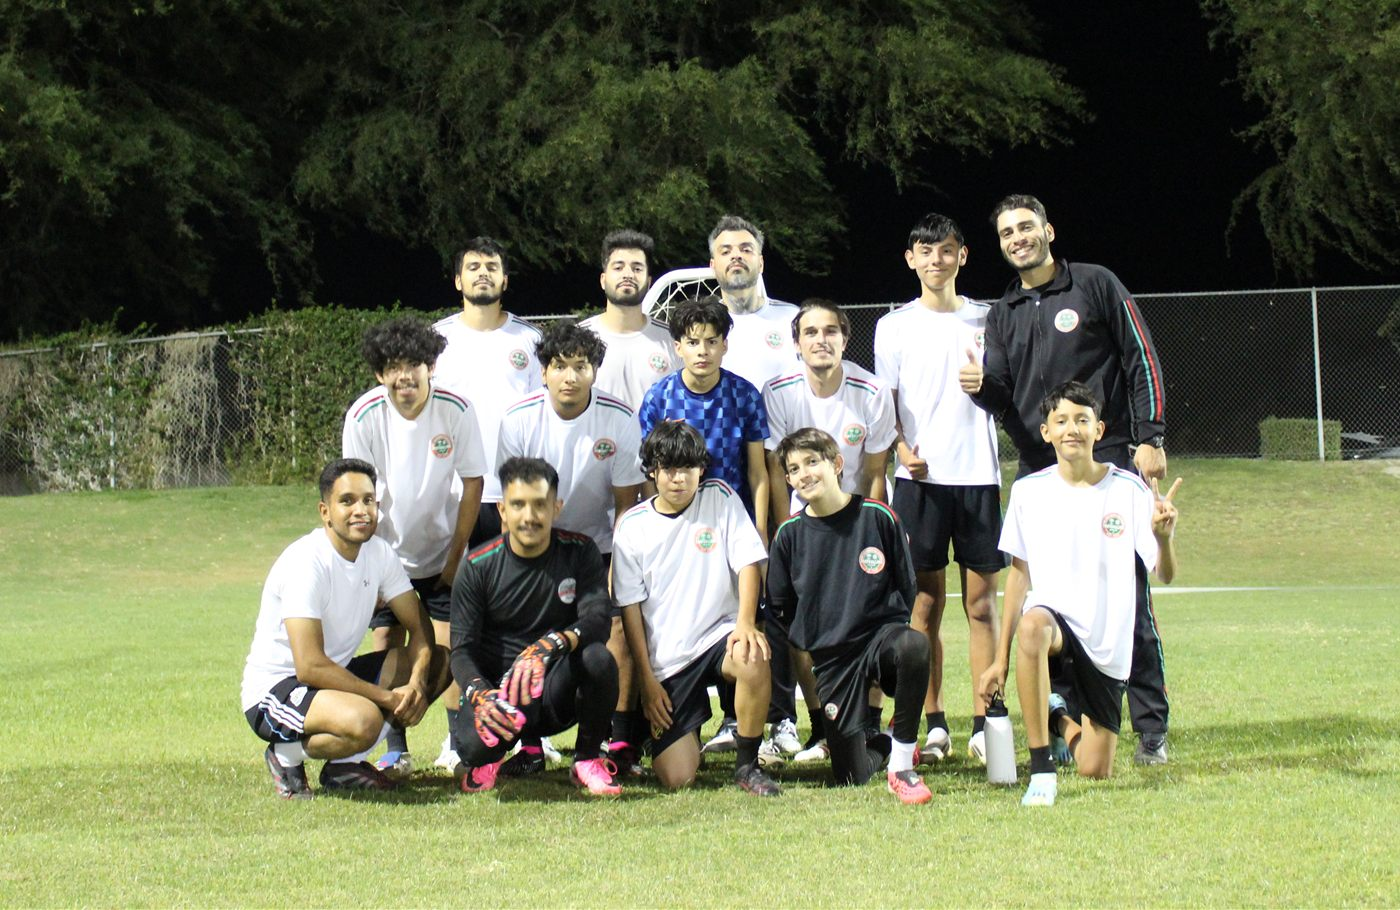
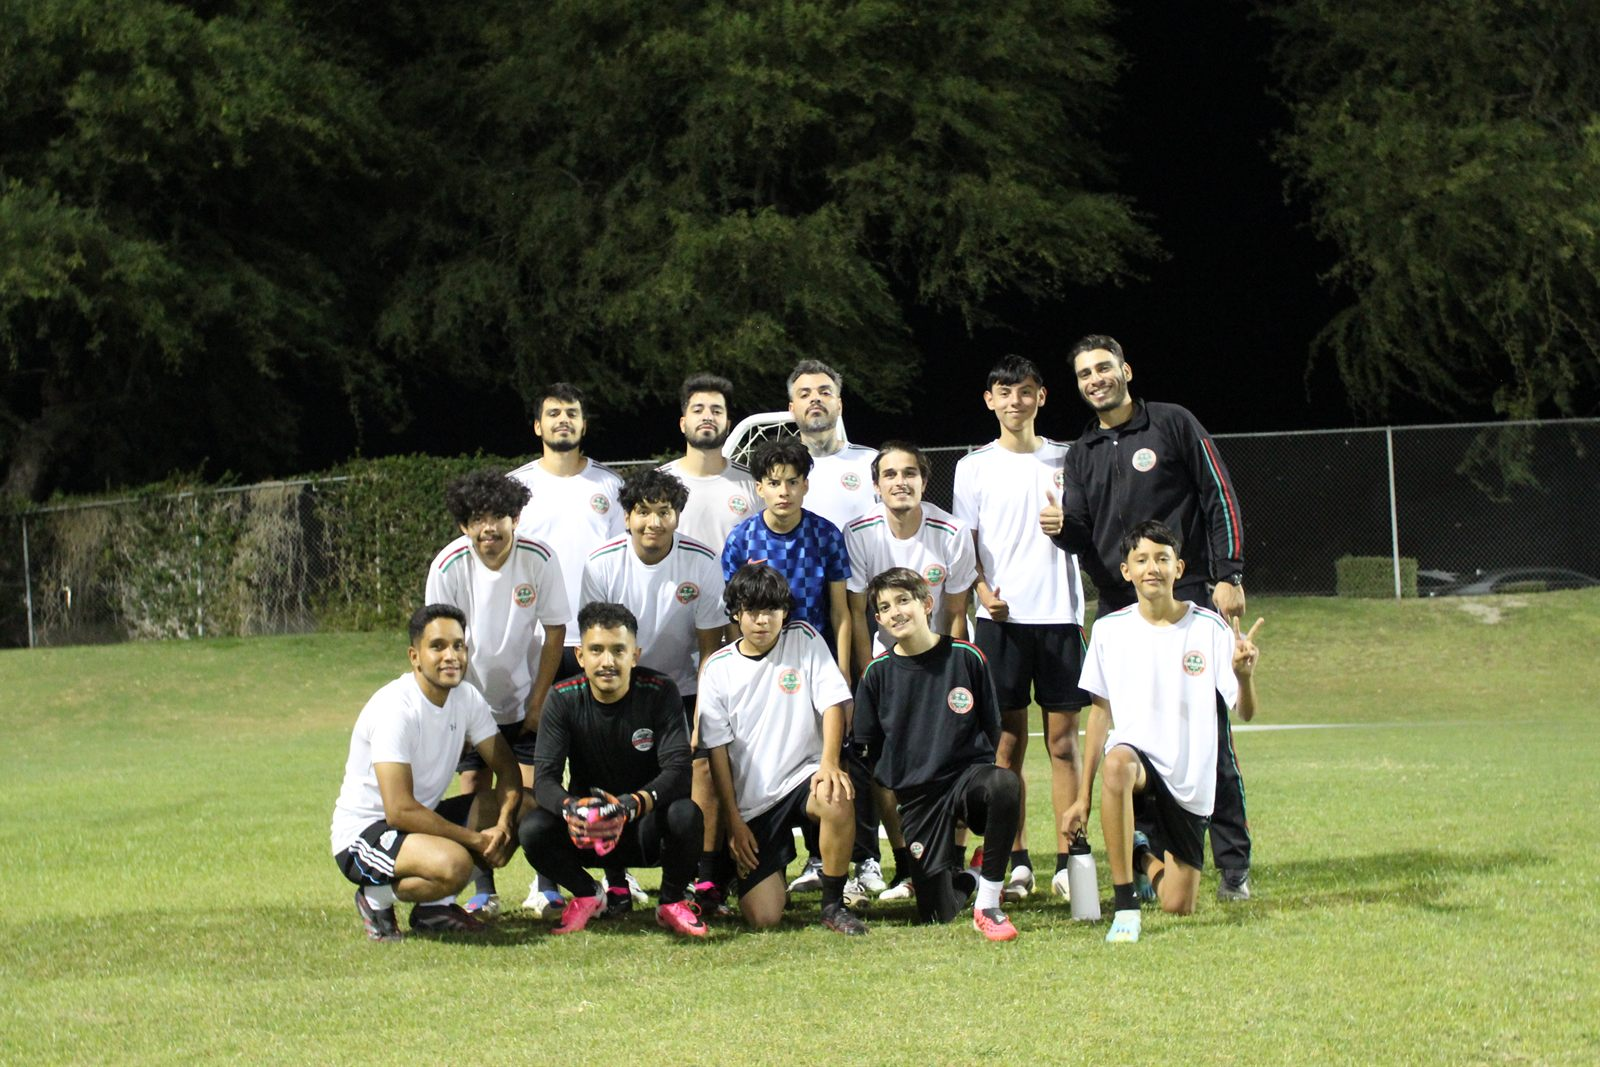
New first team photo and homepage photo carousel
- Replace the first team photo with a fresh crop from the full-resolution original (Men's page + media grid)
- New portrait crop (mens-card.jpg) for the homepage Men's card so every player fits the 3:4 card
- Add a "Club gallery" carousel on the homepage: 4 club photos, arrows, dots, swipe, 5s autoplay that pauses on hover/focus and respects reduced motion; photos shown whole over a blurred backdrop
- Shrink cancha.jpg from 2.4 MB to 450 KB (1200x1600)

diff --git a/index.html b/index.html
@@ -76,7 +76,7 @@
     <div class="eyebrow">Find your place</div>
     <h2 class="h-xl">Our programs</h2>
     <div class="card-grid">
-      <a href="mens.html" class="program" style="background-image: url('assets/images/mens-program.jpg');">
+      <a href="mens.html" class="program" style="background-image: url('assets/images/mens-card.jpg');">
         <span class="chip">16+</span>
         <h3>Men's Program</h3>
         <p>Intensive training sessions for players 16 years and older looking to elevate their game.</p>
@@ -94,6 +94,31 @@
         <p>Specialized training to master the box. Technique, positioning, and mental strength.</p>
         <span class="more">Learn more →</span>
       </a>
+    </div>
+  </section>
+
+  <!-- Club gallery carousel -->
+  <section id="gallery" class="container gallery" aria-roledescription="carousel" aria-label="Club photos">
+    <div class="eyebrow">On the pitch</div>
+    <h2 class="h-xl">Club gallery</h2>
+    <div class="carousel">
+      <div class="carousel-track">
+        <figure class="slide" style="--img: url('/assets/images/mens-program.jpg');" aria-roledescription="slide" aria-label="1 of 4">
+          <img src="assets/images/mens-program.jpg" alt="TSCFG first team group photo on the training pitch at night">
+        </figure>
+        <figure class="slide" style="--img: url('/assets/images/gk-excellence.jpg');" aria-roledescription="slide" aria-label="2 of 4">
+          <img src="assets/images/gk-excellence.jpg" alt="Goalkeeper coach working with a young keeper in front of the goal" loading="lazy">
+        </figure>
+        <figure class="slide" style="--img: url('/assets/images/academy.jpg');" aria-roledescription="slide" aria-label="3 of 4">
+          <img src="assets/images/academy.jpg" alt="Academy player taking a throw-in" loading="lazy">
+        </figure>
+        <figure class="slide" style="--img: url('/assets/images/cancha.jpg');" aria-roledescription="slide" aria-label="4 of 4">
+          <img src="assets/images/cancha.jpg" alt="The TSCFG training ground on a sunny morning" loading="lazy">
+        </figure>
+      </div>
+      <button class="carousel-btn prev" type="button" aria-label="Previous photo">‹</button>
+      <button class="carousel-btn next" type="button" aria-label="Next photo">›</button>
+      <div class="carousel-dots" role="group" aria-label="Choose photo"></div>
     </div>
   </section>
 
@@ -294,6 +319,48 @@
     }
 
     window.addEventListener('load', loadContent);
+
+    // Club gallery carousel
+    (function () {
+      const root = document.querySelector('.carousel');
+      if (!root) return;
+      const track = root.querySelector('.carousel-track');
+      const slides = [...root.querySelectorAll('.slide')];
+      const dotsEl = root.querySelector('.carousel-dots');
+      const reduce = window.matchMedia('(prefers-reduced-motion: reduce)').matches;
+      let i = 0, timer = null;
+      const dots = slides.map((_, n) => {
+        const b = document.createElement('button');
+        b.type = 'button';
+        b.setAttribute('aria-label', `Show photo ${n + 1}`);
+        b.addEventListener('click', () => { go(n); restart(); });
+        dotsEl.appendChild(b);
+        return b;
+      });
+      function go(n) {
+        i = (n + slides.length) % slides.length;
+        track.style.transform = `translateX(-${i * 100}%)`;
+        slides.forEach((s, k) => s.setAttribute('aria-hidden', k !== i));
+        dots.forEach((d, k) => d.setAttribute('aria-current', k === i));
+      }
+      function stop() { clearInterval(timer); timer = null; }
+      function restart() { stop(); if (!reduce) timer = setInterval(() => go(i + 1), 5000); }
+      root.querySelector('.prev').addEventListener('click', () => { go(i - 1); restart(); });
+      root.querySelector('.next').addEventListener('click', () => { go(i + 1); restart(); });
+      root.addEventListener('mouseenter', stop);
+      root.addEventListener('mouseleave', restart);
+      root.addEventListener('focusin', stop);
+      root.addEventListener('focusout', restart);
+      let x0 = null;
+      root.addEventListener('touchstart', e => { x0 = e.touches[0].clientX; stop(); }, { passive: true });
+      root.addEventListener('touchend', e => {
+        if (x0 === null) return;
+        const dx = e.changedTouches[0].clientX - x0;
+        if (Math.abs(dx) > 40) go(dx < 0 ? i + 1 : i - 1);
+        x0 = null; restart();
+      });
+      go(0); restart();
+    })();
   </script>
 </body>
 </html>

diff --git a/assets/css/site.css b/assets/css/site.css
@@ -102,6 +102,23 @@ a:hover { color: var(--green-700); }
 .program p { font-size: 15px; margin-bottom: 14px; }
 .more { font-weight: 700; font-size: 14px; letter-spacing: .06em; text-transform: uppercase; }
 
+/* Club gallery carousel */
+.gallery { padding-top: 60px; }
+.gallery .h-xl { margin-bottom: 32px; }
+.carousel { position: relative; overflow: hidden; border-radius: 20px; background: var(--green-900); aspect-ratio: 16/9; }
+.carousel-track { display: flex; height: 100%; transition: transform .6s ease; }
+.slide { position: relative; flex: 0 0 100%; height: 100%; overflow: hidden; }
+.slide::before { content: ''; position: absolute; inset: -30px; background: var(--img) center/cover; filter: blur(24px) brightness(.55); }
+.slide img { position: relative; width: 100%; height: 100%; object-fit: contain; }
+.carousel-btn { position: absolute; top: 50%; transform: translateY(-50%); width: 48px; height: 48px; border-radius: 50%; border: 0; background: rgba(255,255,255,.9); color: var(--ink); font-size: 30px; line-height: 1; cursor: pointer; display: grid; place-items: center; padding-bottom: 4px; transition: background .2s, color .2s; }
+.carousel-btn:hover { background: var(--red); color: #fff; }
+.carousel-btn.prev { left: 16px; }
+.carousel-btn.next { right: 16px; }
+.carousel-dots { position: absolute; left: 0; right: 0; bottom: 14px; display: flex; justify-content: center; gap: 4px; }
+.carousel-dots button { width: 24px; height: 24px; border: 0; background: transparent; cursor: pointer; display: grid; place-items: center; }
+.carousel-dots button::after { content: ''; width: 10px; height: 10px; border-radius: 50%; background: rgba(255,255,255,.55); transition: background .2s, transform .2s; }
+.carousel-dots button[aria-current="true"]::after { background: #fff; transform: scale(1.3); }
+
 /* Memberships */
 .memberships { margin-top: 80px; background: var(--green-700); color: #fff; padding: 90px 0; }
 .memberships .eyebrow { color: var(--red-light); }
@@ -187,6 +204,11 @@ footer ul { list-style: none; display: flex; flex-direction: column; gap: 8px; }
   .panel { padding: 20px; }
   .match-grid, .news-grid { grid-template-columns: 1fr; }
   .programs, .news { padding-top: 64px; }
+  .gallery { padding-top: 40px; }
+  .carousel { aspect-ratio: 1/1; border-radius: 16px; }
+  .carousel-btn { width: 40px; height: 40px; font-size: 26px; }
+  .carousel-btn.prev { left: 10px; }
+  .carousel-btn.next { right: 10px; }
   .memberships { padding: 64px 0; margin-top: 56px; }
   .club { gap: 40px; padding-top: 56px; padding-bottom: 64px; grid-template-columns: 1fr; }
   .club-photo { box-shadow: 12px 12px 0 var(--red); margin-right: 12px; }
